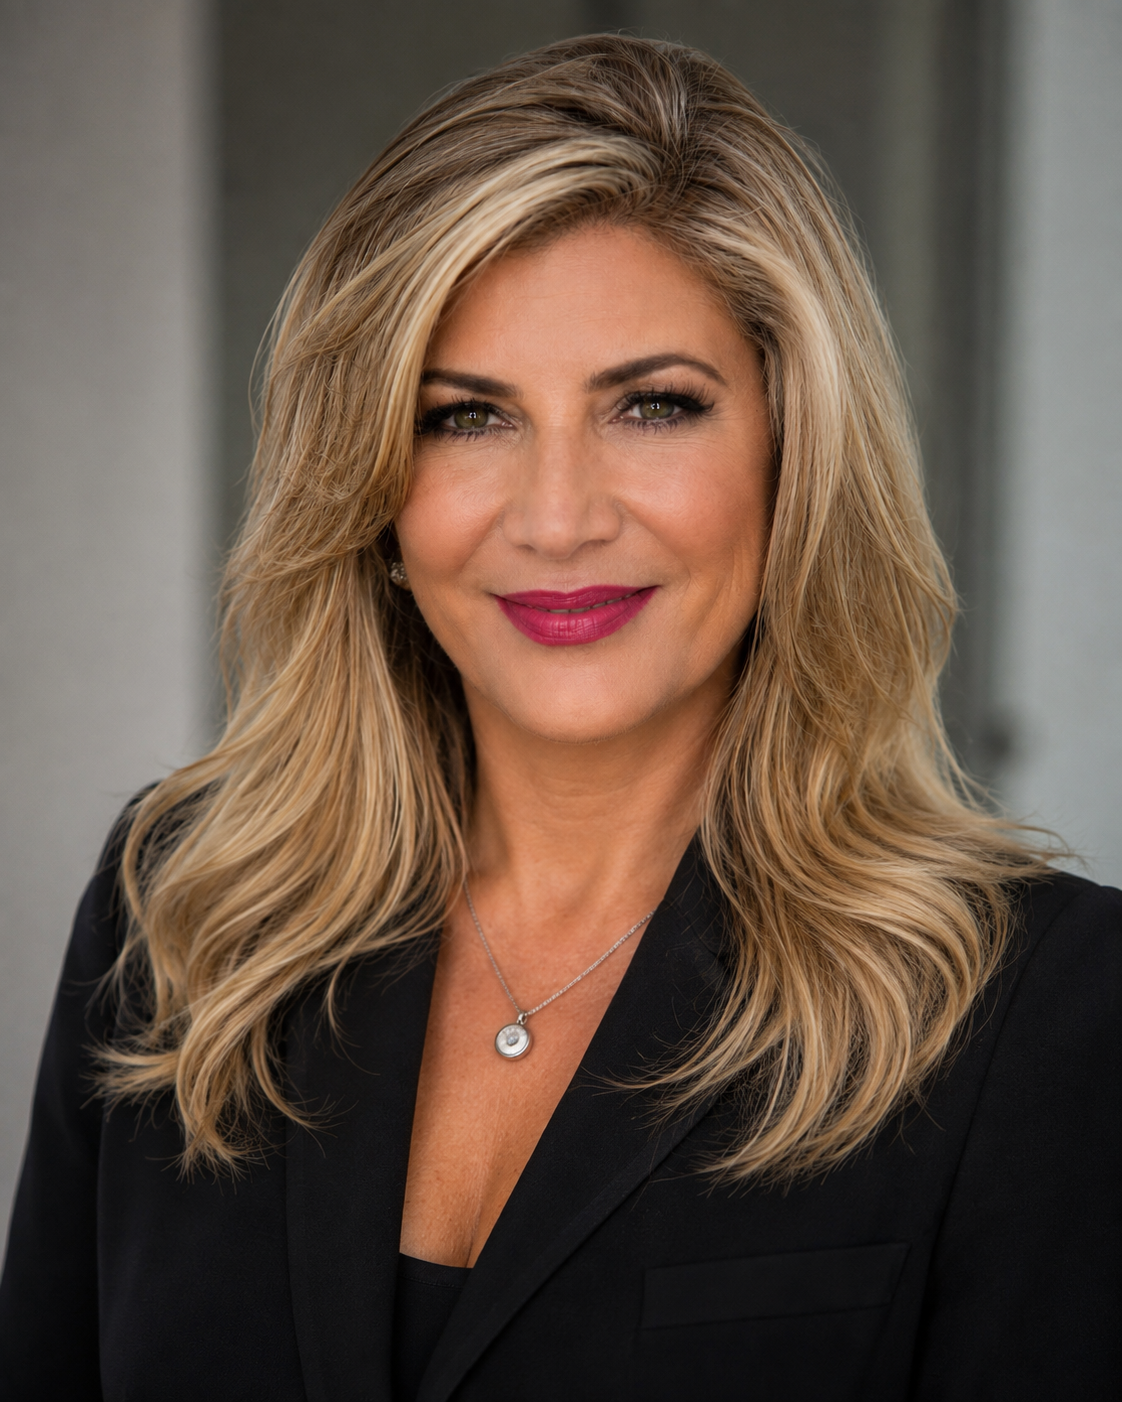
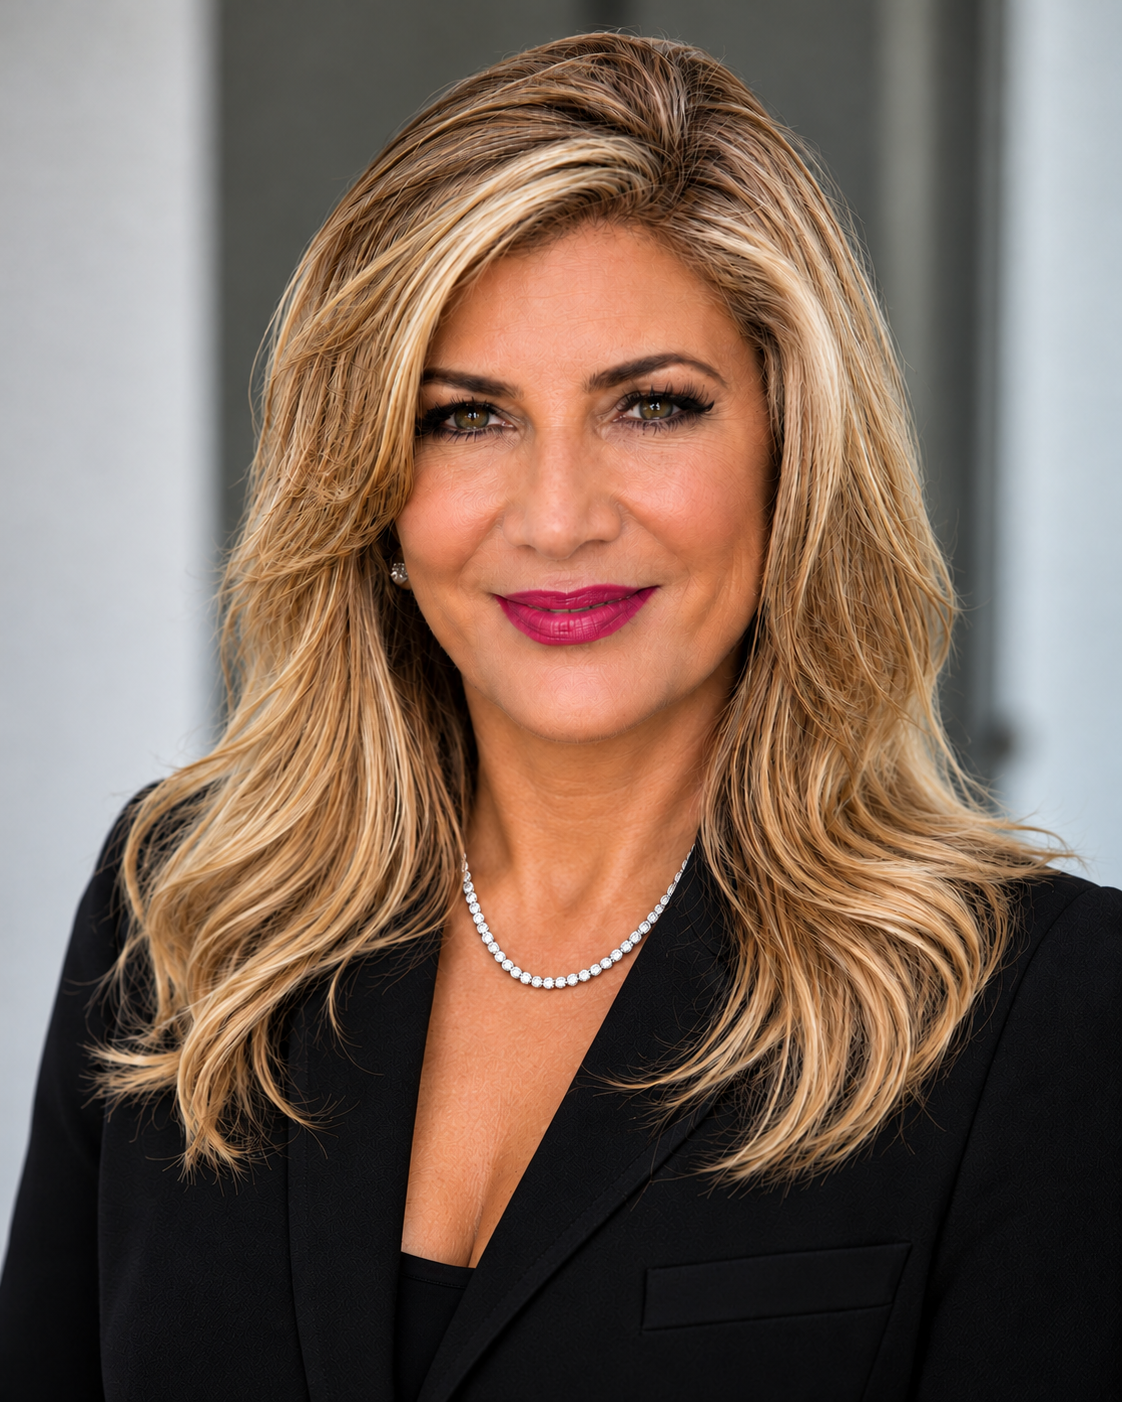
Refactor podcast links structure and update related components

diff --git a/src/components/home/Media.tsx b/src/components/home/Media.tsx
@@ -45,9 +45,11 @@ export default function Media({ content }: HomeMediaProps) {
                 <SiteLink href={content.podcast_primary.href} {...isExternal(content.podcast_primary.href)} className="h-5.5 bg-[#F5F0E7] leading-5.5 text-[#102746] lg:h-auto lg:leading-[normal]">
                   {content.podcast_primary.label}
                 </SiteLink>
-                <SiteLink href={content.podcast_secondary.href} {...isExternal(content.podcast_secondary.href)} className="text-white">
-                  {content.podcast_secondary.label}
-                </SiteLink>
+                {content.podcast_links.map((item) => (
+                  <SiteLink key={item.label} href={item.href} {...isExternal(item.href)} className="text-white">
+                    {item.label}
+                  </SiteLink>
+                ))}
               </div>
             </div>
             <figure className="my-4 w-full max-w-66.5 justify-self-center bg-[#EEE8F7] p-3.5 lg:my-0 lg:max-w-[299px]">

diff --git a/src/server/content/home/media.ts b/src/server/content/home/media.ts
@@ -16,7 +16,11 @@ export const mediaContent: HomeMediaContent = {
   podcast_text:
     "Honest conversations about healing, relationships, and being human. Join Dr. Foojan and her guests as they explore the experiences that shape us, the choices that move us forward, and the possibilities ahead.",
   podcast_primary: { label: "Watch InnerVoice ↗", href: "https://www.youtube.com/user/DrFoojan" },
-  podcast_secondary: { label: "Apple Podcasts ↗", href: "#" },
+  podcast_links: [
+    { label: "Apple Podcasts ↗", href: "#" },
+    { label: "iHeart ↗", href: "https://www.iheart.com/podcast/269-inner-voice-heartfelt-chat-78360107/" },
+    { label: "Spotify ↗", href: "https://open.spotify.com/show/7t7zMdcqTfdJcFTeqeNrm3" },
+  ],
   podcast_image_url: "/images/home/inner-voice-cover.png",
   podcast_image_alt: "Inner Voice podcast with Dr. Foojan portrait and Dr. Foojan Zeine logo",
   episodes: [

diff --git a/src/server/content/home/ait.ts b/src/server/content/home/ait.ts
@@ -2,8 +2,8 @@ import type { HomeAitContent } from "@/services/interface";
 
 export const aitContent: HomeAitContent = {
   kicker: "02 / Her signature methodology",
-  heading: "Awareness is the beginning of",
-  heading_accent: "everything.",
+  heading: "Awareness is the beginning, Integration is Key to",
+  heading_accent: "fulfillment",
   paragraphs: [
     "Awareness Integration Theory is Dr. Foojan's six-phase approach to understanding how our experiences, perceptions, emotions, and choices shape our lives.",
     "Rather than presenting AIT as a static diagram, this pathway shows its progression: beginning with awareness, moving inward through perception and self-understanding, integrating emotion and values, and ultimately translating insight into accountability.",

diff --git a/src/components/admin/homeSections.tsx b/src/components/admin/homeSections.tsx
@@ -206,7 +206,7 @@ export const homeSections: HomeSectionConfig[] = [
           ...heading("podcast_"),
           area("podcast_text", "Text"),
           button("podcast_primary", "Light button"),
-          button("podcast_secondary", "Second button"),
+          { name: "podcast_links", label: "Podcast link", kind: FieldKind.List, itemLabel: "Podcast link", fields: [text("label", "Label"), link("href", "Link")] },
           { name: "podcast_image_url", label: "Cover image", kind: FieldKind.Image, aspect: 1, outputWidth: 900 },
           text("podcast_image_alt", "Cover description (for screen readers)"),
           {

diff --git a/src/services/interface.ts b/src/services/interface.ts
@@ -122,7 +122,7 @@ export interface HomeMediaContent {
   podcast_heading_accent: string;
   podcast_text: string;
   podcast_primary: MenuLink;
-  podcast_secondary: MenuLink;
+  podcast_links: MenuLink[];
   podcast_image_url: string;
   podcast_image_alt: string;
   episodes: HomeEpisode[];
